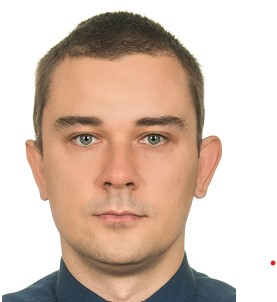
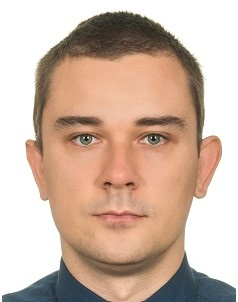
centered image

diff --git a/style.css b/style.css
@@ -21,8 +21,10 @@ body {
     width: 20%;
     height: 100%;
     border-radius: 50%;
+    background-color: white;
     background-image: url("./img/photo.jpg");
-    background-size: cover;
+    background-size: contain;
+    background-repeat: no-repeat;
     background-position: center;
 }
 main {
